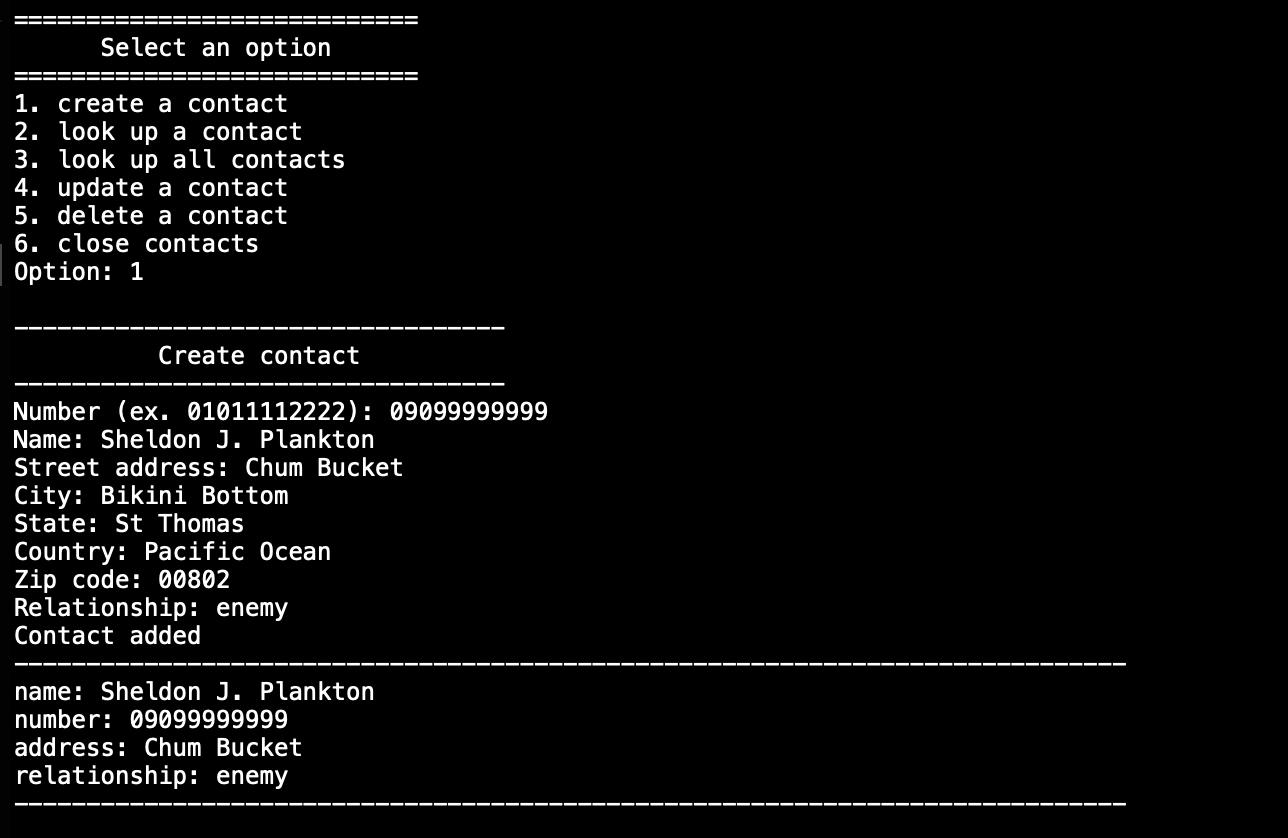
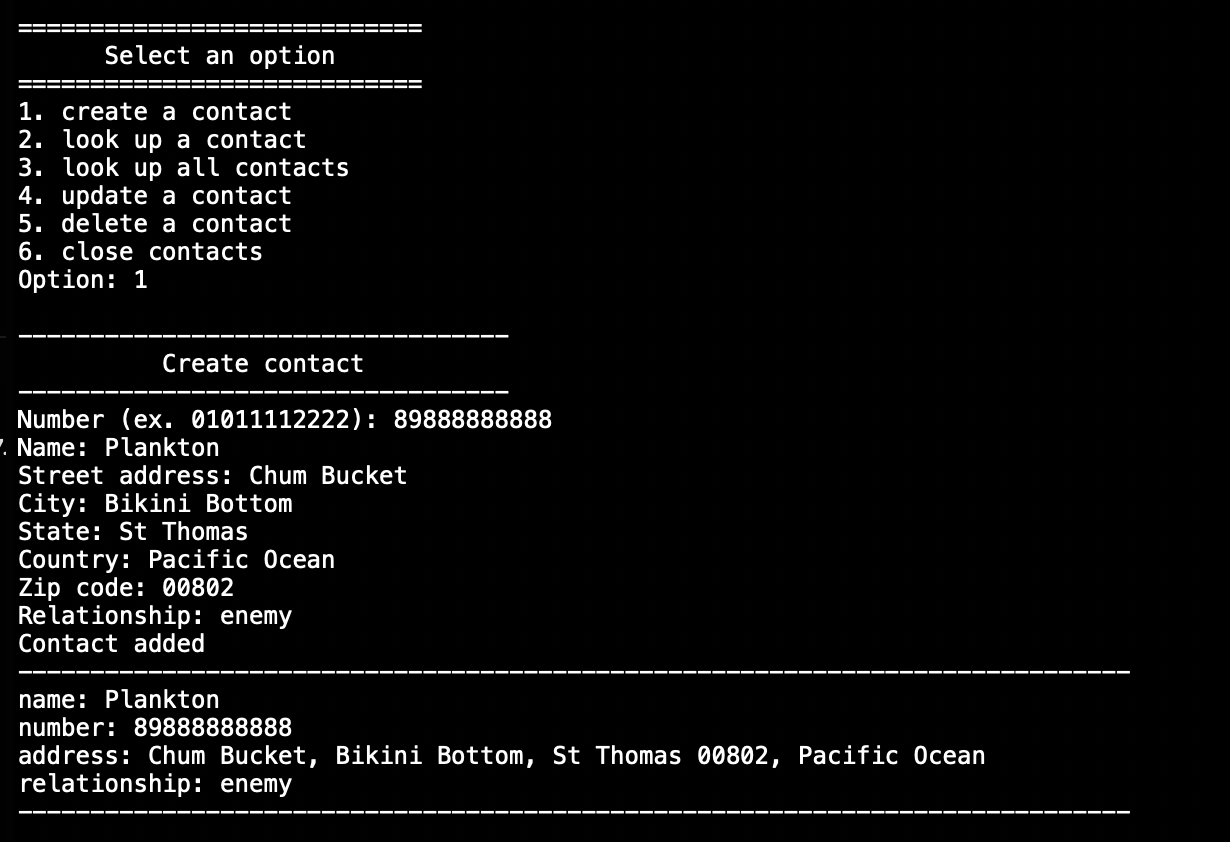
fixed address error. dont know how it was working before

Changed region(s): [[0.0, 0.3723, 0.9268, 0.9928], [0.0, 0.0, 0.3398, 0.3413]]

diff --git a/mvc/model/contact/ContactDTO.java b/mvc/model/contact/ContactDTO.java
@@ -37,14 +37,14 @@ public class ContactDTO {
 	}
 	
 	public ContactDTO(int id, 
-						   String name, 
-						   String number, 
-						   String streetAddress, 
-						   String city, 
-						   String state, 
-						   String zipCode,
-						   String country,
-						   String relationship) {
+				      String name, 
+				      String number, 
+				      String streetAddress, 
+				      String city, 
+				      String state, 
+				      String zipCode,
+				      String country,
+				      String relationship) {
 		this.id = id;
 		this.name = name;
 		this.number = number;
@@ -73,10 +73,10 @@ public class ContactDTO {
 		}
 	}
 
-	private void setAddress() {
+	private void setStreetAddress() {
 		System.out.print("Street address: ");
-		this.address = this.exceptionHandler.handleInputException(Input.ADDRESS);
-		if (this.address.equals("back")) {
+		this.streetAddress = this.exceptionHandler.handleInputException(Input.ADDRESS);
+		if (this.streetAddress.equals("back")) {
 			this.backOut = true;
 		}
 	}
@@ -134,7 +134,7 @@ public class ContactDTO {
 		if (this.backOut) {
 			return;
 		}
-		this.setAddress();
+		this.setStreetAddress();
 		if (this.backOut) {
 			return;
 		}
@@ -154,6 +154,7 @@ public class ContactDTO {
 		if (this.backOut) {
 			return;
 		}
+		this.address = this.streetAddress + ", " + this.city + ", " + this.state + " " + this.zipCode + ", " + this.country;
 		this.setRelationship();
 	}
 	
@@ -227,10 +228,6 @@ public class ContactDTO {
 
 	public void setCountry(String country) {
 		this.country = country;
-	}
-
-	public void setAddress(String address) {
-		this.address = address;
 	}
 
 	public void setRelationship(String relationship) {

diff --git a/mvc/model/contact/ContactDAO.java b/mvc/model/contact/ContactDAO.java
@@ -92,7 +92,7 @@ public class ContactDAO implements DataAccessObjectInterface {
 		if (contact.getBackOut()) {
 			return null;
 		}
-		addressID = this.addressDAO.insertAddress(contact.getAddress(), 
+		addressID = this.addressDAO.insertAddress(contact.getStreetAddress(), 
 												  contact.getCity(), 
 												  contact.getState(), 
 												  contact.getCountry(), 
